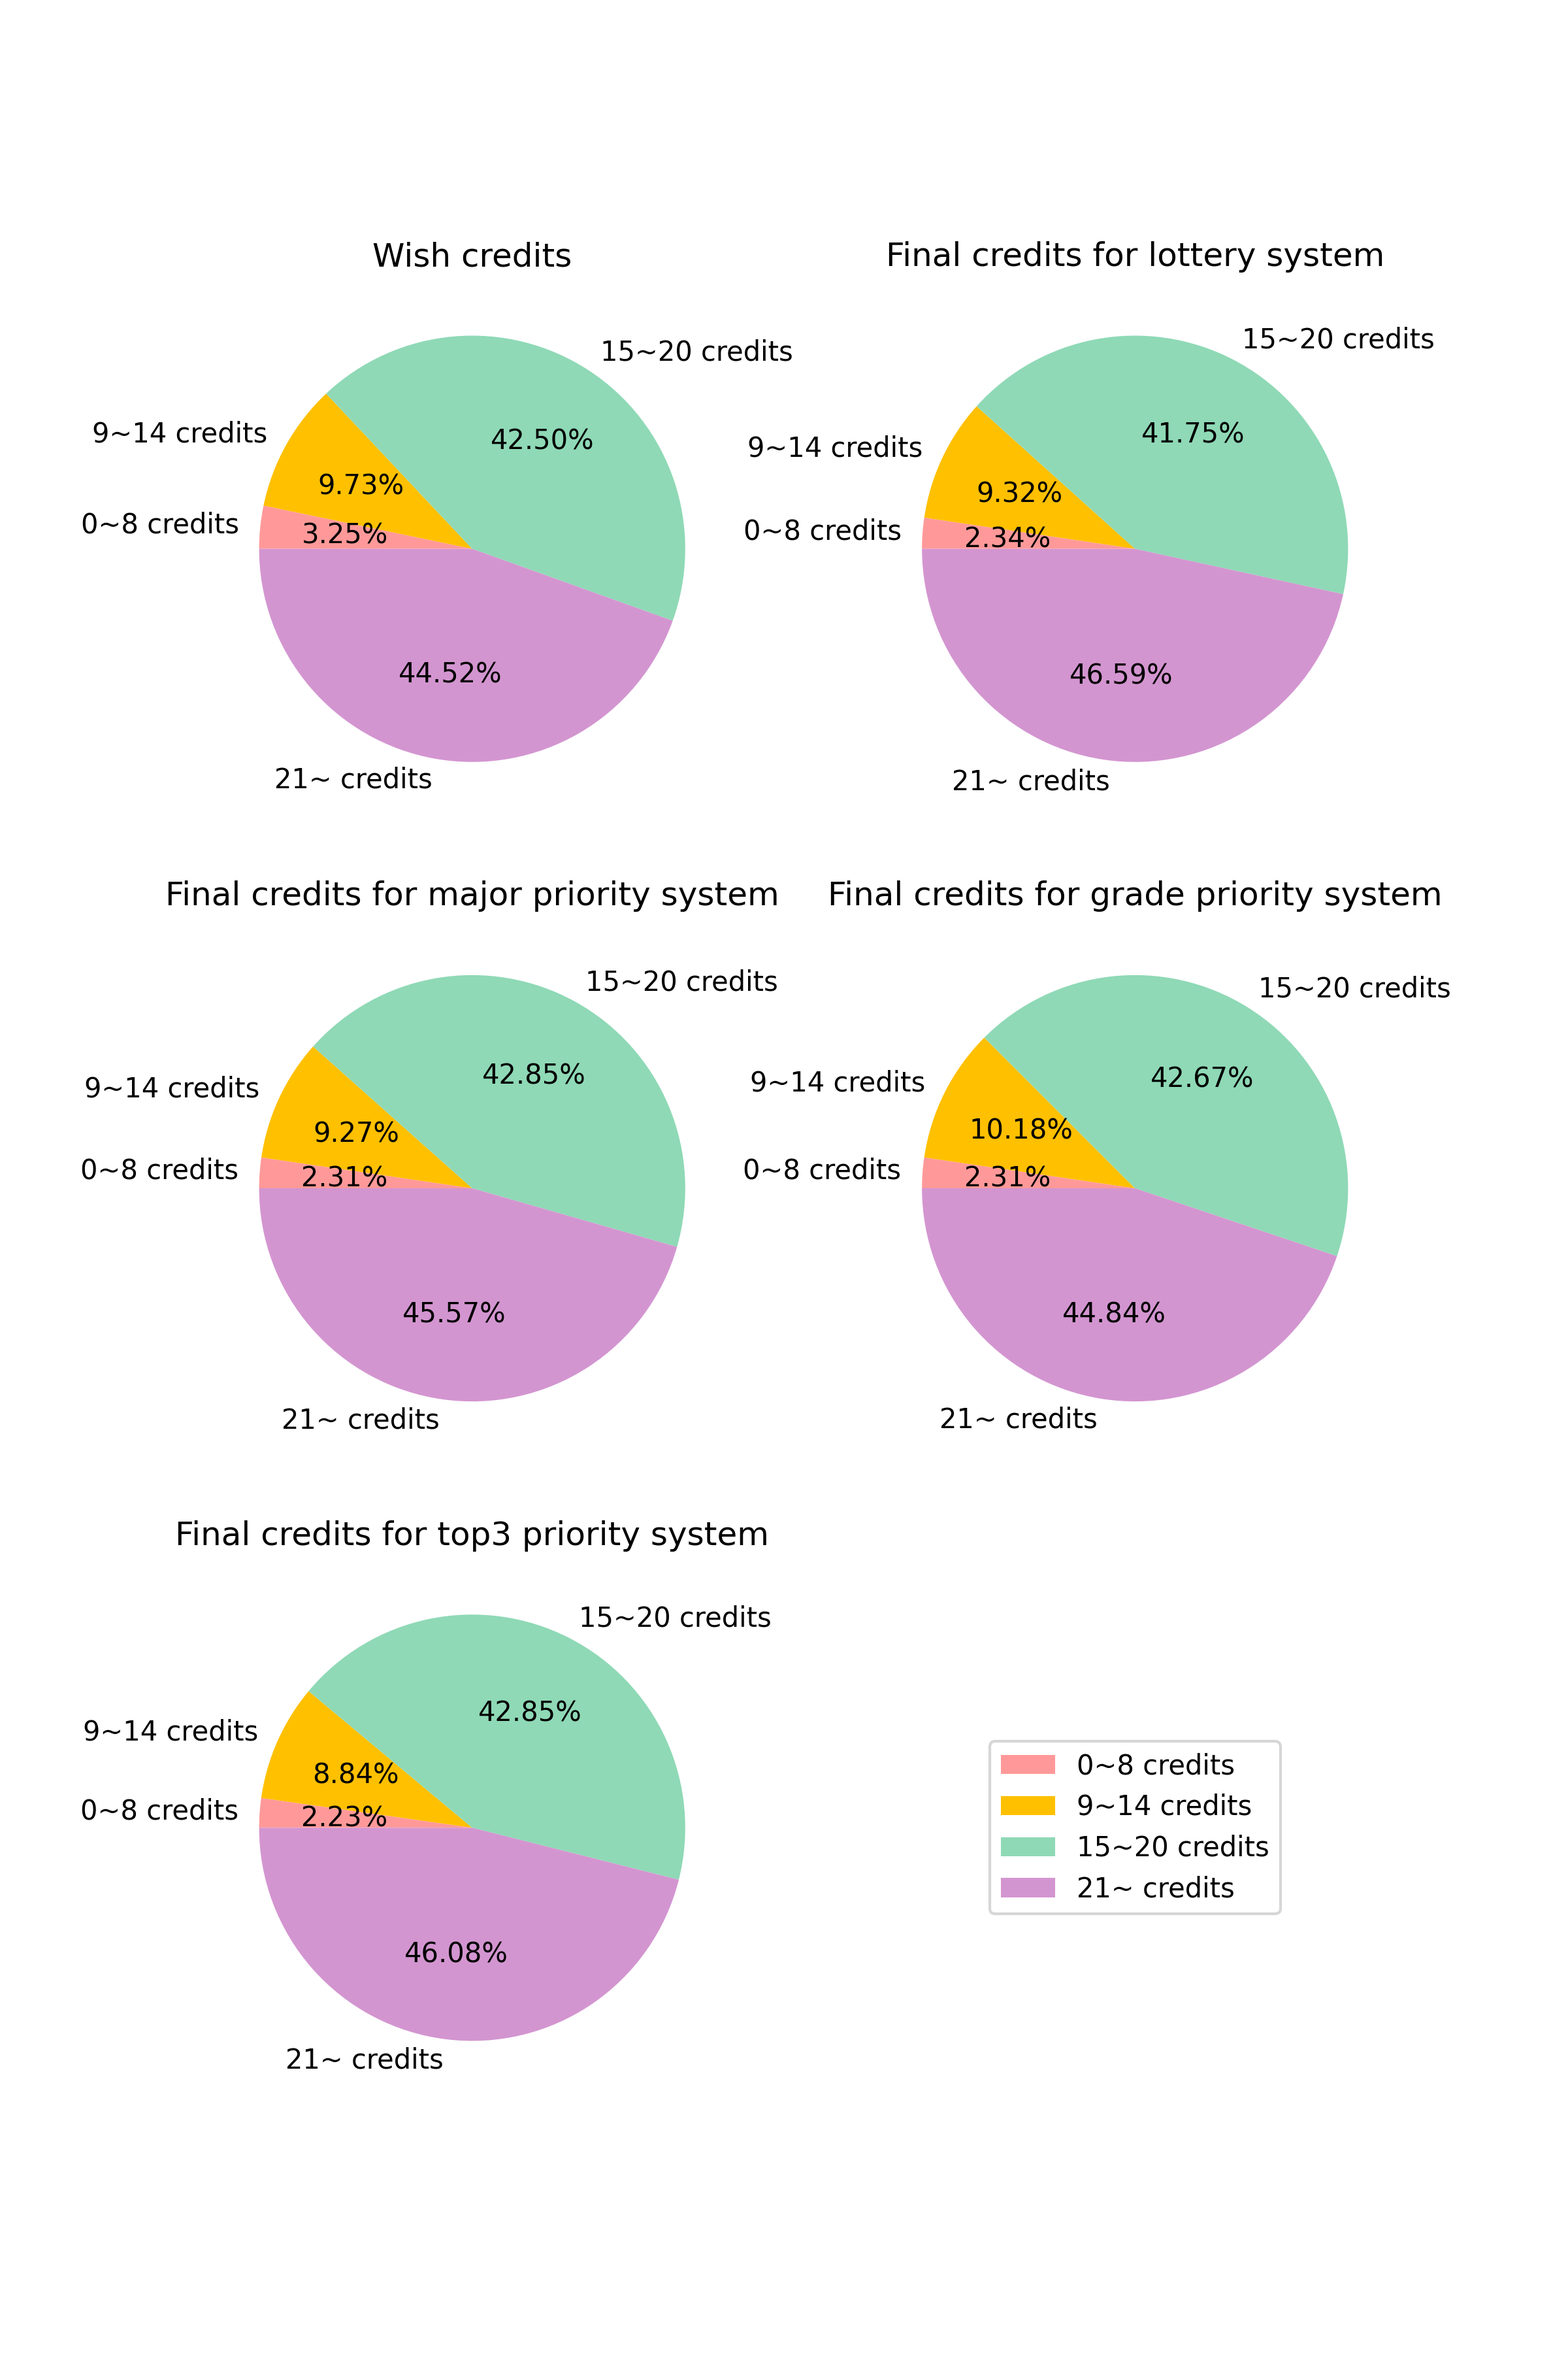
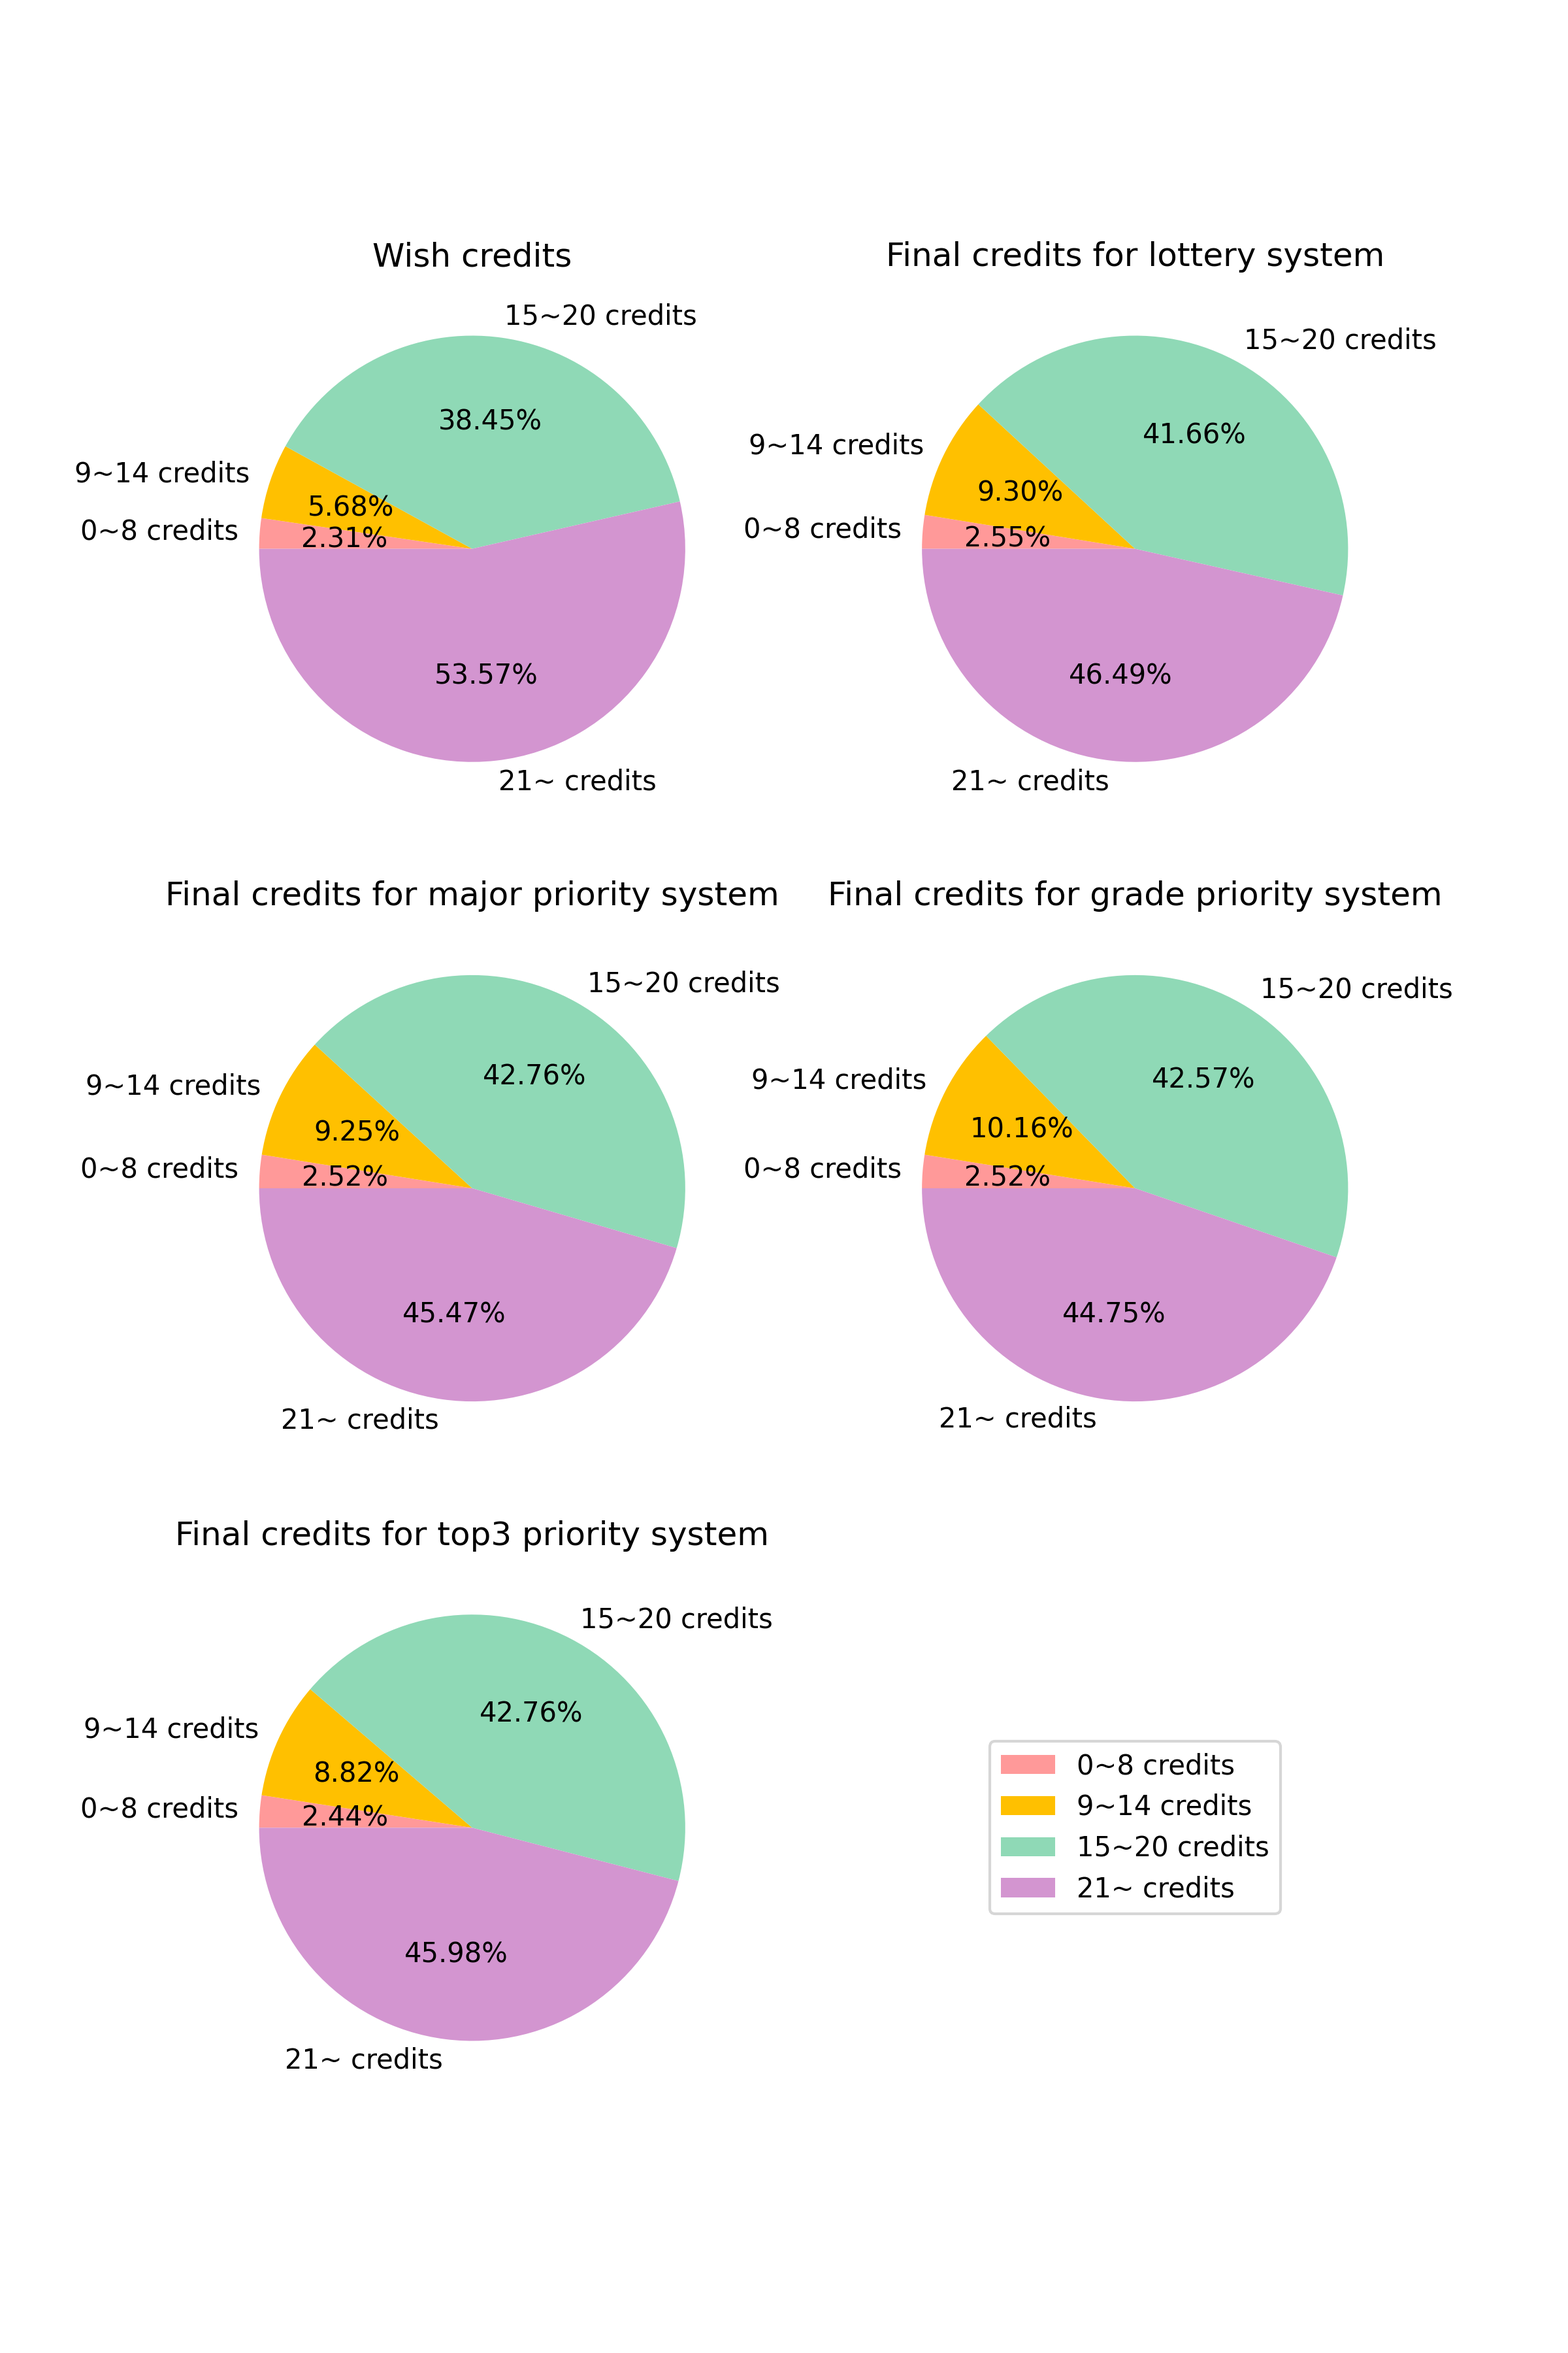
fix error in credit distribution

diff --git a/visualization/metrics/credit_distribution.py b/visualization/metrics/credit_distribution.py
@@ -30,14 +30,13 @@ def credit_distribution(results, semester):
         if s.degree == Degree.BACHELOR:
             all_students += 1
             wish_credit = sum_credits(s.timetable)
-            if wish_credit > 0:
-                wish_credits.append(wish_credit)
+            wish_credits.append(wish_credit)
             if wish_credit > 9:
                 over_standard += 1
     
     df.loc['wish', ">= 9 credits (%)"] = round(over_standard / all_students * 100, 2)
 
-    bins = int(max(wish_credits))
+    bins = int(max(wish_credits))+1
     histogram, _ = np.histogram(wish_credits, bins = bins)
     plt.plot(range(MAX_CREDIT), list(histogram[:MAX_CREDIT]), color=COLOR.ELSE, alpha = 0.5, label = "wish credits")
     
@@ -55,14 +54,13 @@ def credit_distribution(results, semester):
             if s.degree == Degree.BACHELOR:
                 final_credit = sum_credits(s.final_timetable)
                 wish_credit = sum_credits(s.timetable)
-                if wish_credit > 0:
-                    final_credits.append(final_credit)
+                final_credits.append(final_credit)
                 if final_credit > 9:
                     over_standard += 1
 
         df.loc[system, ">= 9 credits (%)"] = round(over_standard / all_students * 100, 2)
         
-        bins = int(max(wish_credits))
+        bins = int(max(final_credits))+1
         histogram, _ = np.histogram(final_credits, bins = bins)
         plt.plot(range(MAX_CREDIT), list(histogram[:MAX_CREDIT]), color=COLOR.value_of(system), marker=MARKER.value_of(system), label = "win credits of "+system+" system")
         
@@ -89,12 +87,11 @@ def credit_ratio(results, semester):
         if s.degree == Degree.BACHELOR:
             all_students += 1
             wish_credit = sum_credits(s.timetable)
-            if wish_credit > 0:
-                wish_credits.append(wish_credit)
+            wish_credits.append(wish_credit)
             if wish_credit > 9:
                 over_standard += 1
       
-    bins = int(max(wish_credits))
+    bins = int(max(wish_credits))+1
     histogram, _ = np.histogram(wish_credits, bins = bins)
     
     labels = ['0~8 credits', '9~14 credits', '15~20 credits', '21~ credits']
@@ -114,12 +111,11 @@ def credit_ratio(results, semester):
             if s.degree == Degree.BACHELOR:
                 final_credit = sum_credits(s.final_timetable)
                 wish_credit = sum_credits(s.timetable)
-                if wish_credit > 0:
-                    final_credits.append(final_credit)
+                final_credits.append(final_credit)
                 if final_credit > 9:
                     over_standard += 1
 
-        bins = int(max(wish_credits))
+        bins = int(max(final_credits))+1
         histogram, _ = np.histogram(final_credits, bins = bins)
         plt.subplot(322 + i)
         i+=1

diff --git a/main.py b/main.py
@@ -5,7 +5,7 @@ from util.parse import parse_course_file, parse_student_file, generate_course_ty
 from visualization.evaluation import evaluation
 
 if __name__ == "__main__":
-    for semester in [Semester.SPRING]: #, Semester.FALL]:
+    for semester in [Semester.SPRING, Semester.FALL]:
         courses_dict = parse_course_file("2021 정규학기 과목별 추첨여부.xlsx", "2021 "+semester.value+"학기 과목.xls", semester)
         students_dict = parse_student_file("2021 정규학기 수강신청 내역.xlsx", courses_dict, semester)
         

diff --git a/visualization/metrics/major_priority.py b/visualization/metrics/major_priority.py
@@ -61,7 +61,7 @@ def major_satisfaction(results, semester):
         for s in students:
             timetables = timetable_per_major(s, s.timetable, timetables)
             final_timetables = timetable_per_major(s, s.final_timetable, final_timetables)
-        print(ee)
+            
         for major in majors:
             ratios = get_ratios(timetables, final_timetables, major)
             try:
